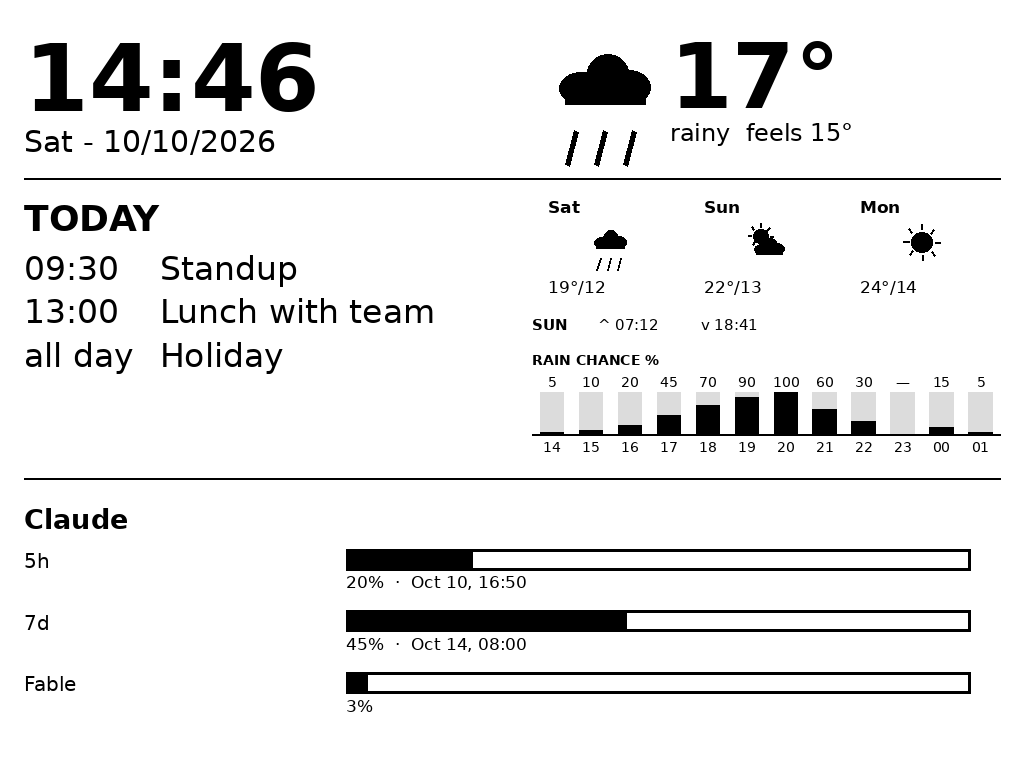
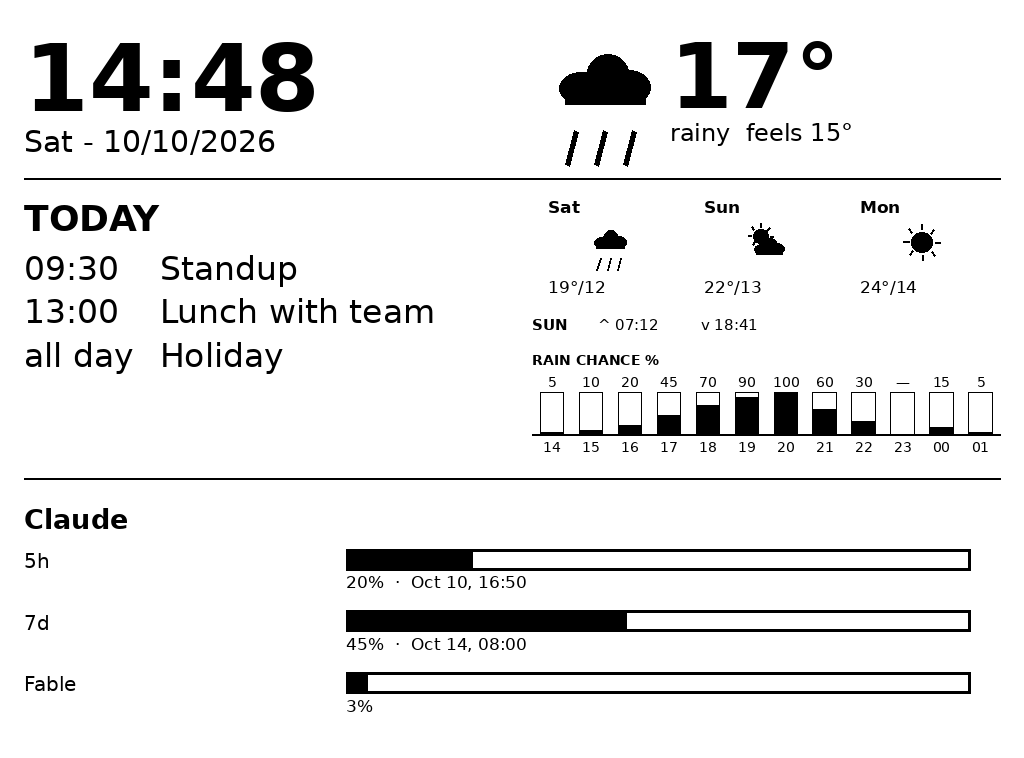
fix(renderer): draw rain chart tracks in pure black on white
Replace the light gray 100% track behind each rain bar with a thin black
outline, so the chart follows the pure black-on-white style. Update the
preview image and the past-hours test to match.

Changed region(s): [[0.7812, 0.5158, 0.9688, 0.5765], [0.5, 0.5158, 0.75, 0.5765], [0.25, 0.0607, 0.3125, 0.1517]]

diff --git a/tests/test_contracts.py b/tests/test_contracts.py
@@ -120,8 +120,9 @@ class RenderContract(unittest.TestCase):
         draw = ImageDraw.Draw(image)
         with mock.patch.dict(app.HA_DATA, {"hourly": past + [(now, 0)]}):
             app.w_rain(draw, (0, 0, 400, 120))
-        # Only the 0% hour is drawn: its bar track stays light, never filled.
-        self.assertNotIn(0, image.crop((0, 50, 400, 94)).getdata())
+        # The first column is the current 0% hour, not a past 100% one: the
+        # inside of its bar stays white.
+        self.assertEqual(image.getpixel((16, 70)), 255)
 
     def test_empty_fixture_render_is_deterministic_png(self):
         widgets = app.DASH_WIDGETS

diff --git a/renderer/app.py b/renderer/app.py
@@ -781,7 +781,7 @@ def w_rain(d, box):
     top, base = y + h * 0.40, y + h * 0.80
     for i, (dt, pct) in enumerate(hours):
         cx = x + cw * (i + 0.5)
-        d.rectangle((cx - bw / 2, top, cx + bw / 2, base), fill=220)  # 100% track
+        d.rectangle((cx - bw / 2, top, cx + bw / 2, base), outline=0, width=1)  # 100% track
         if pct:
             d.rectangle((cx - bw / 2, base - (base - top) * min(pct, 100) / 100, cx + bw / 2, base), fill=0)
         label = "—" if pct is None else str(pct)
